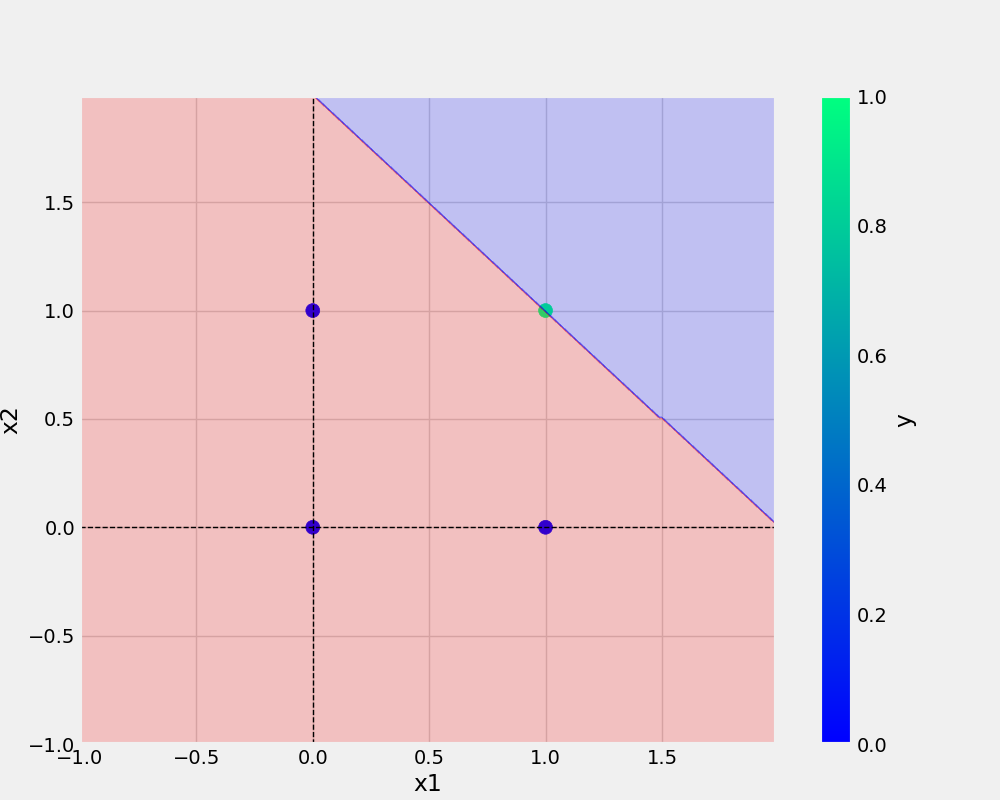
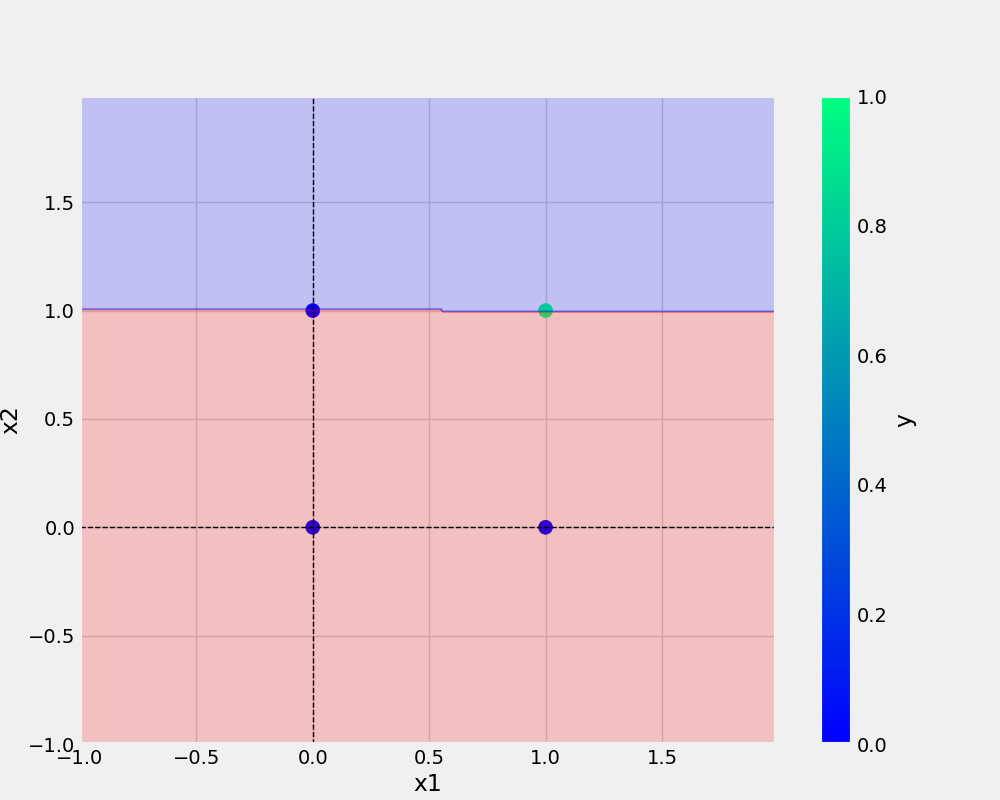
Scripts updated

Changed region(s): [[0.062, 0.125, 0.775, 0.6562]]

diff --git a/or.py b/or.py
@@ -10,21 +10,22 @@ def main(data, eta, epochs, filename, plotfilename):
     model = Perceptron(eta= eta, epochs = epochs)
     model.fit(X,y)
 
-    _ = model.total_loss()  # _ is dummy variable
+    _ = model.total_loss()
 
     save_model(model, filename=filename)
     save_plot(df, plotfilename ,model)
 
 if __name__ == "__main__":
 
-    AND = {
-        "x1": [0,0,1,1],
-        "x2": [0,1,0,1],
-        "y": [0,0,0,1],
+    OR = {
+        "x1": [0,1,0,1],
+        "x2": [0,0,1,1],
+        "y": [0,1,1,1]
+
     }
 
-    df = pd.DataFrame(AND)
+    df = pd.DataFrame(OR)
     ETA = 0.3 # Learning rate is in between 0 and 1
     EPOCHS = 10
 
-    main(data=df, eta=ETA, epochs=EPOCHS, filename="and.model", plotfilename="and.png")    
+    main(data=df, eta=ETA, epochs=EPOCHS, filename="or.model", plotfilename="or.png")    
